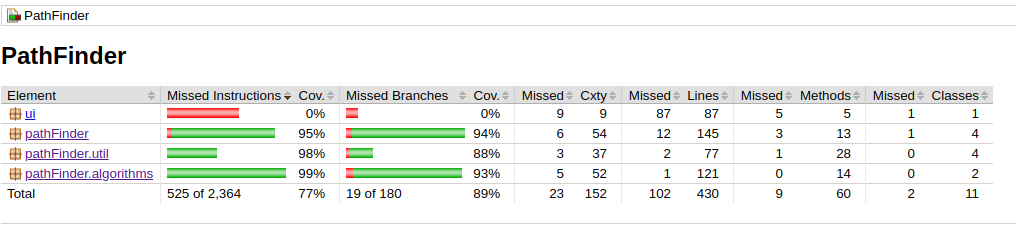
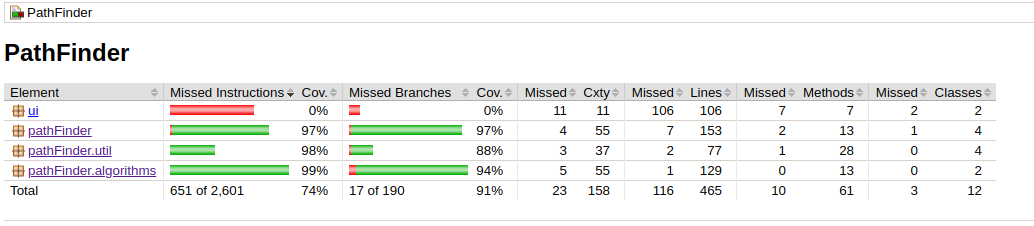
viimeistelyä

diff --git a/dokumentaatio/kayttoohje.md b/dokumentaatio/kayttoohje.md
@@ -14,4 +14,4 @@ Ohjelma hyväksyy syötteeksi txt-muotoisia tiedostoja, jotka koostuvat .- ja @-
 
 ### Testit
 
-Testit voi suorittaa ajamalla komennon **`./gradlew test`** PathFinder-kansiossa. Testit käyttävät karttatiedostoja testFiles-kansiosta. 
+Testit voi suorittaa ajamalla komennon **`./gradlew test`** PathFinder-kansiossa. Testit käyttävät karttatiedostoja testFiles-kansiosta. Jacoco-testikattavuusraportin saa generoitua ajamalla komento **`./gradlew jacocoTestReport`** PathFinder-kansiossa.
